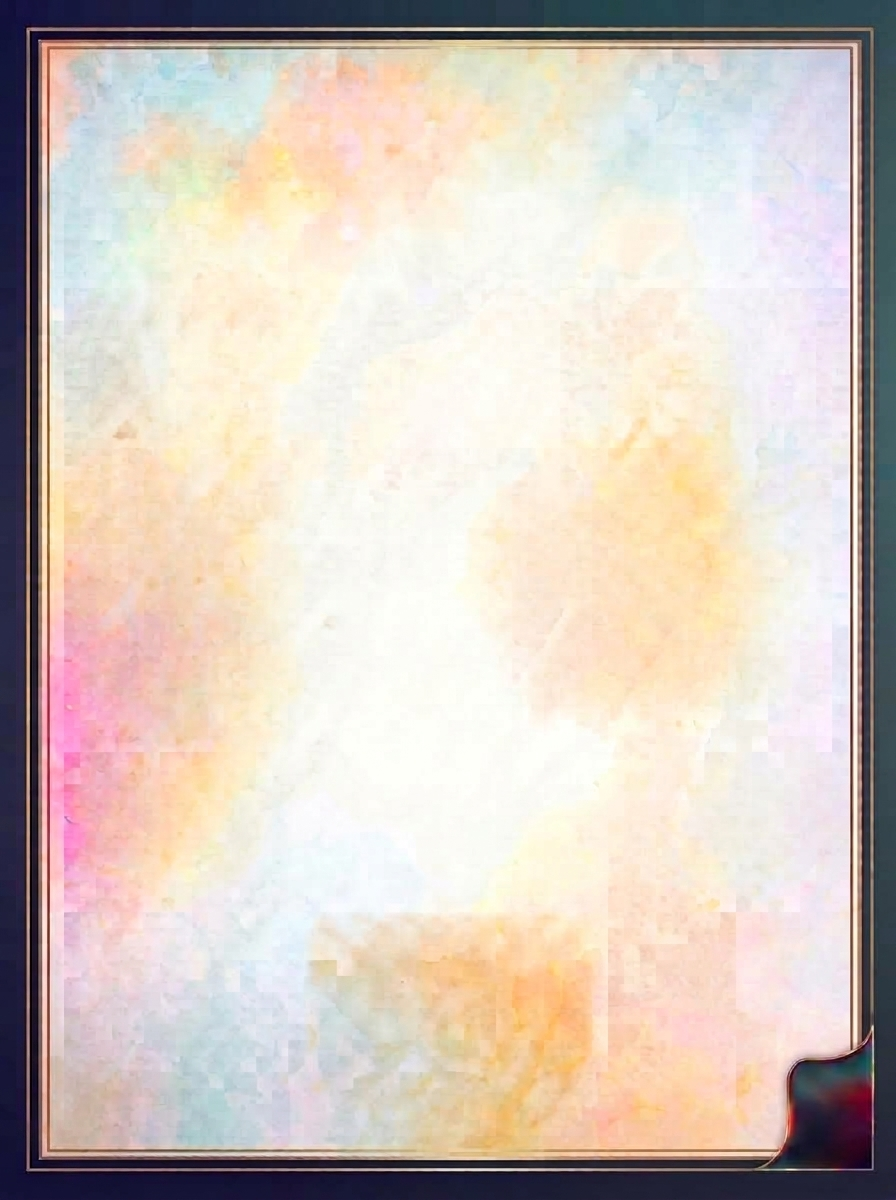
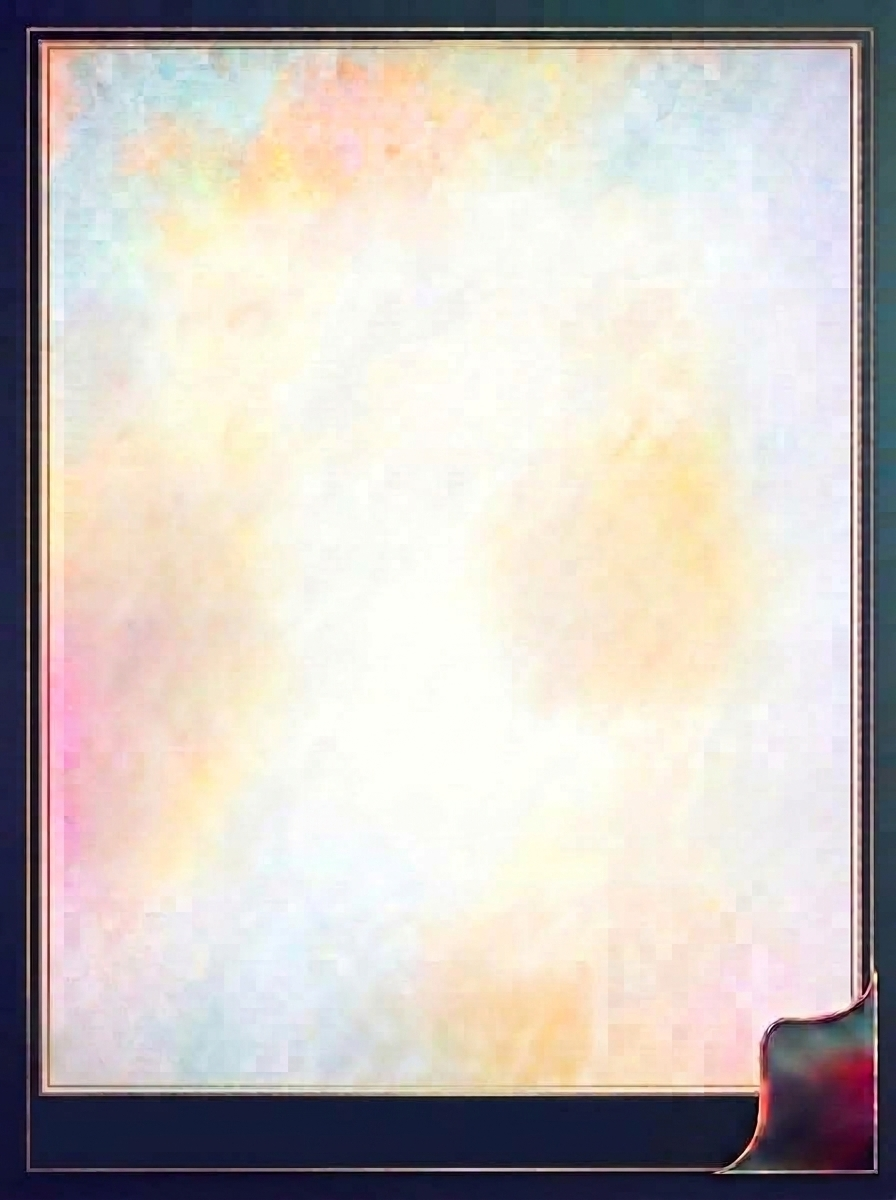
Use updated certificate template asset

diff --git a/src/legacy-app.js b/src/legacy-app.js
@@ -6,7 +6,7 @@ const CENTRE_PROFILE_KEY = "centre_profile";
 export function initApp(config = {}) {
     const SUPABASE_URL = config.supabaseUrl || "";
     const SUPABASE_KEY = config.supabaseKey || "";
-    const REPORT_TEMPLATE_SRC = config.reportTemplateSrc || "/Certificate%20Template.jpg?v=2";
+    const REPORT_TEMPLATE_SRC = config.reportTemplateSrc || "/Certificate%20Template.jpg?v=3";
     const REPORT_TEMPLATE_LAYER_ROOT = config.reportTemplateLayerRoot || "/certificate-layers";
     const MONTH_LABEL = new Intl.DateTimeFormat("en-US", {
       month: "long",

diff --git a/src/main.js b/src/main.js
@@ -13,6 +13,7 @@ const runtimeConfig = window.__APP_CONFIG__ || {
 initApp({
   supabaseUrl: import.meta.env.VITE_SUPABASE_URL || runtimeConfig.supabaseUrl,
   supabaseKey: import.meta.env.VITE_SUPABASE_PUBLISHABLE_KEY || runtimeConfig.supabaseKey,
-  reportTemplateSrc: "/Certificate%20Template.jpg?v=2",
+  // Keep the cache key in sync with the current Certificate Template.jpg asset.
+  reportTemplateSrc: "/Certificate%20Template.jpg?v=3",
   reportTemplateLayerRoot: "/certificate-layers"
 });
